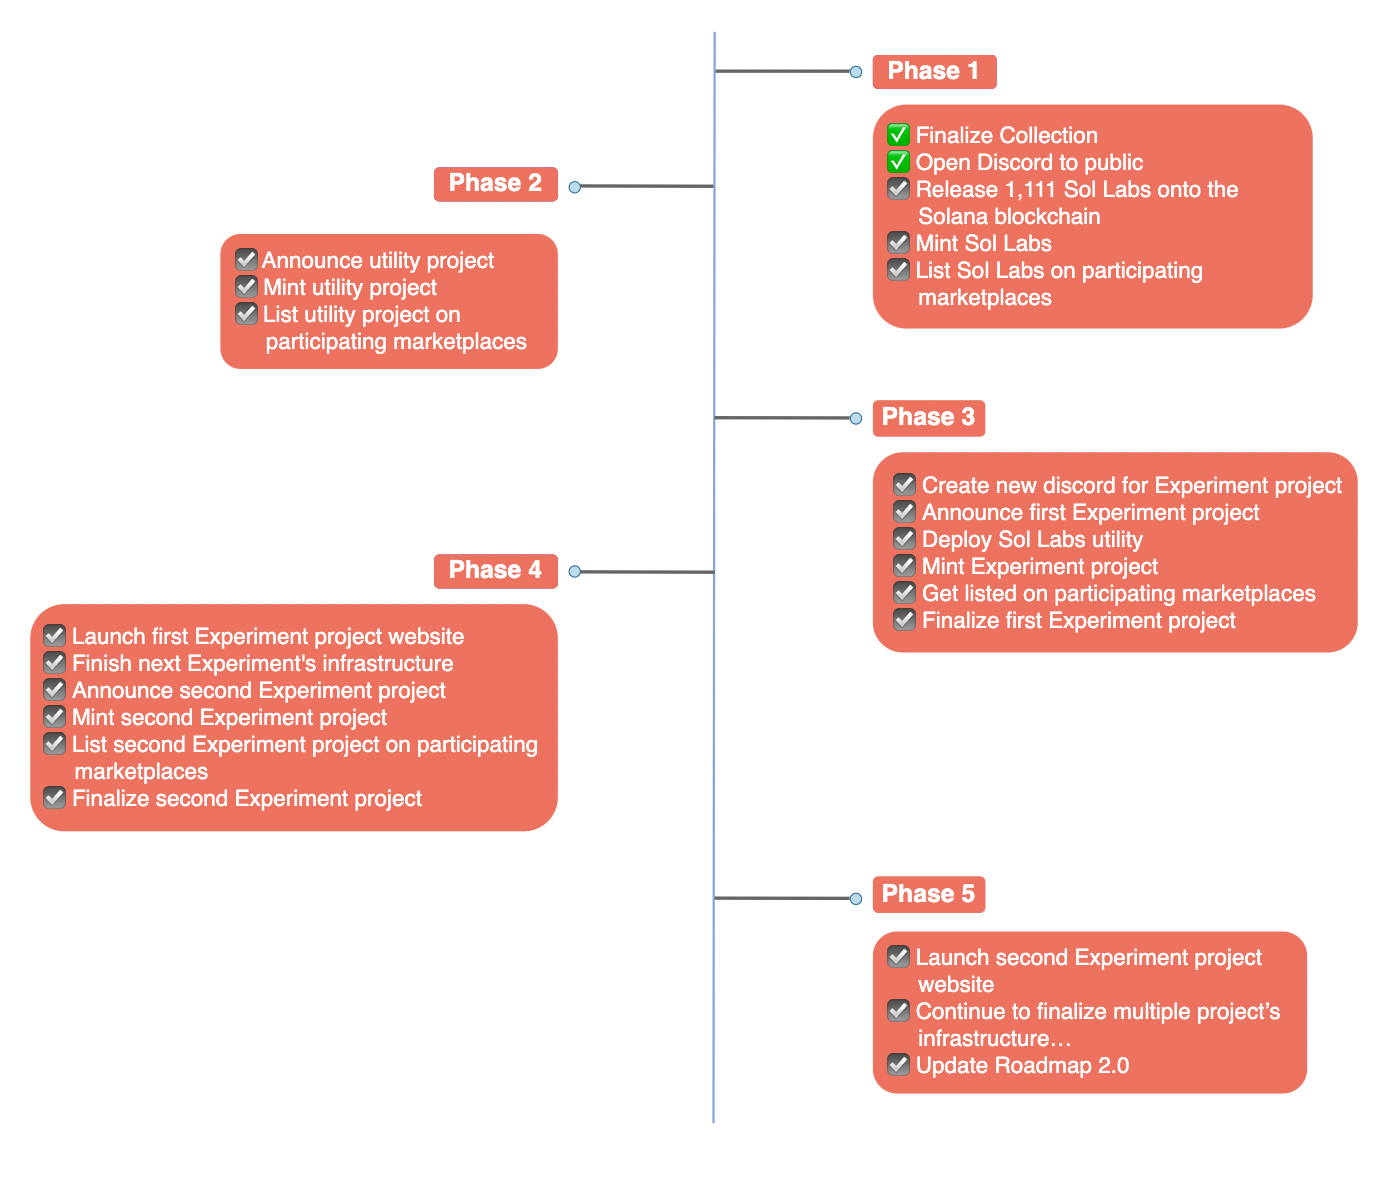
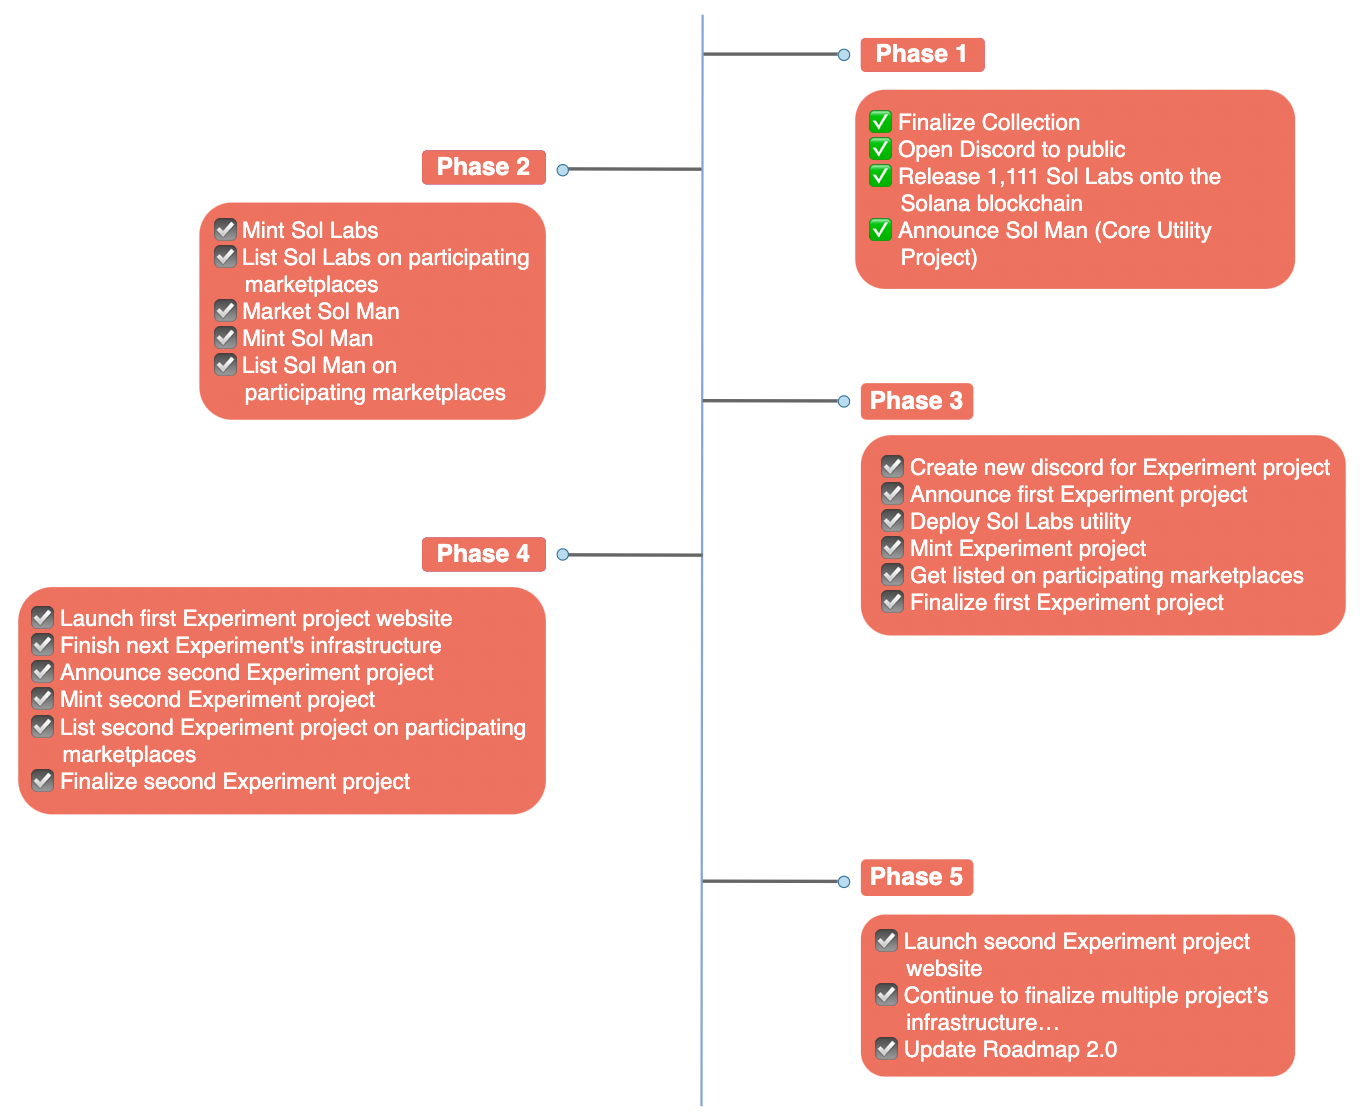
update roadmap, added utilities to sol labs

Changed region(s): [[0.0, 0.0312, 1.0, 0.9688]]

diff --git a/src/components/About.tsx b/src/components/About.tsx
@@ -1,11 +1,14 @@
 import { Component } from "react";
-import { Text, Box, Image, Flex, Grid } from "../chakra";
+import { Link } from "react-router-dom";
+import { Text, Box, Image, Flex, Grid, List, ListItem } from "../chakra";
 import MissionImg from "../images/Mission.png";
 import RoadmapImg from "../images/Roadmap.png";
 import MemberOneImg from "../images/Member1.png";
 import MemberTwoImg from "../images/Member2.png";
 import MemberThreeImg from "../images/Member3.png";
-
+import TicketAttribute from "../images/TicketAttribute.png";
+import SolanaAttribute from "../images/SolanaAttribute.png";
+import ExperimentAttribute from "../images/ExperimentAttribute.png";
 
 class About extends Component {
     get teamInfo() {
@@ -36,6 +39,11 @@ class About extends Component {
         return {
             fontSize: { base: "lg", md: "xl" }
         };
+    }
+    get listCommonProps() {
+        return {
+            marginLeft: "30px"
+        }
     }
     renderMission = () => (
         <Grid templateColumns={{ base: 'repeat(1, 1fr)', lg: 'repeat(2, 1fr)' }} gap={{ base: '0', md: '20' }} paddingBottom="8">
@@ -86,7 +94,7 @@ class About extends Component {
         </Box>
     )
     renderFAQ = () => {
-        const { commonProps } = this;
+        const { commonProps, listCommonProps } = this;
 
         return (
             <Box backgroundColor="lightGray" padding="8">
@@ -103,12 +111,85 @@ class About extends Component {
                     after another. We plan to build a portfolio like no other in the Solana NFT
                     community, and every holder that is with us will benefit at either a micro
                     or macro scale.
-                </Text>
-                <br />
-                <Text>
+                    <br />
+                    <br />
                     We are here to focus on long-term play. As people get invested more and more
                     into us the short and medium term holders will eventually be bought out.
                     Diamond hands will be benefiting greatly for understanding our vision.
+                </Text>
+                <br />
+                <Text fontWeight="bold" {...commonProps}>
+                    Utilities?
+                </Text>
+                <Text>
+                    The type of utility holders have is based on the product attribute you
+                    receive on your NFT. All Sol Labs NFT holders will be on the whitelist
+                    for Sol Man.
+                    <br />
+                    <br />
+                    <List>
+                        <ListItem {...listCommonProps}>
+                            <Text fontWeight="bold">Ticket attribute:</Text>
+                            <br />
+                            <Image src={TicketAttribute} alt="ticket attribute" objectFit='cover' width="150px" borderRadius="20" />
+                            <br />
+                            <Text>
+                                Those holding onto the Ticket development attribute will be whitelisted
+                                to all Experiment Projects of all NFTs created from Sol Labs.
+                            </Text>
+                            <br />
+                            <Text>
+                                NFT must be delisted in order to join the whitelist!
+                            </Text>
+                            <br />
+                            <Text as="em">
+                                * The Sol Labs NFTs with the Ticket development will be the only
+                                way people can get onto the whitelist for future Experiments.
+                                People who have OG roles will get level 1 (25%) whitelist,
+                                while people who have the Sol Labs NFT with the Ticket development
+                                will get level 2 whitelist (48%).
+                            </Text>
+                        </ListItem>
+                        <br />
+                        <ListItem {...listCommonProps}>
+                            <Text fontWeight="bold">Experiment attribute:</Text>
+                            <br />
+                            <Image src={ExperimentAttribute} alt="experiment attribute" objectFit='cover' width="150px" borderRadius="20" />
+                            <br />
+                            <Text>
+                                Those holding onto the Experiment development attribute will receive an
+                                airdrop of all Experiment Project Token created from Sol Labs.
+                            </Text>
+                            <br />
+                            <Text>
+                                NFT must be delisted in order to receive airdrop!
+                            </Text>
+                        </ListItem>
+                        <br />
+                        <ListItem {...listCommonProps}>
+                            <Text fontWeight="bold">Solana attribute:</Text>
+                            <br />
+                            <Image src={SolanaAttribute} alt="solana attribute" objectFit='cover' width="150px" borderRadius="20" />
+                            <br />
+                            <Text>
+                                Those holding onto the Solana development attribute will
+                                receive an airdrop of our {" "}
+                                <Link to="/projects/sol_man" className="link">Sol Man</Link> 
+                                {" "} (Core Utility NFT).
+                                Holders with this attribute also have the option of selling
+                                it back at mint price or increased value as new projects launch.
+                                The value of this NFT will increase by 1 sol with every project
+                                launch, including Experiment Projects and Test Projects.
+                                Any of these NFTs found at the valued price will be bought
+                                within a week.
+                            </Text>
+                            <br />
+                            <Text as="em">
+                                * Sol Man will be given to the holder before Sol Man mint launch.
+                                Must be delisted to receive!
+                            </Text>
+                        </ListItem>
+                    </List>
                 </Text>
                 <br />
                 <Text fontWeight="bold" {...commonProps}>
@@ -154,7 +235,7 @@ class About extends Component {
                     When is mint date?
                 </Text>
                 <Text>
-                    2/20/22 (Subject to change, Follow Twitter or join Discord for up to date time)
+                    February 18th 2022 23:00 PST / 07:00 +1 UTC.
                 </Text>
                 <br />
                 <Text fontWeight="bold" {...commonProps}>

diff --git a/src/components/Project/BuddyBots.tsx b/src/components/Project/BuddyBots.tsx
@@ -4,7 +4,8 @@ import {
     Box,
     Text,
     UnorderedList,
-    ListItem
+    ListItem,
+    Link
 } from "../../chakra";
 import BuddyBotsImg from "../../images/BuddyBotsCollage.png";
 
@@ -52,7 +53,7 @@ class BuddyBots extends Component {
                     Mint price?
                 </Text>
                 <Text>
-                    0 (Just have enough for the gas fee).
+                    Finished minting.
                 </Text>
                 <br />
                 <Text fontWeight="bold" {...commonProps}>
@@ -63,8 +64,8 @@ class BuddyBots extends Component {
                         Weekly lotto will be held for Buddy Bots holders.
                     </ListItem>
                     <ListItem {...listCommonProps}>
-                    10 Buddy Bots will be chosen for a chance to win 0.1 SOL per week 
-                    (Must be <b><u>delisted</u></b>!)
+                        10 Buddy Bots will be chosen for a chance to win 0.1 SOL per week
+                        (Must be <b><u>delisted</u></b>!)
                     </ListItem>
                     <ListItem {...listCommonProps}>
                         Buddy Bots will be cycled through until they have all been picked.
@@ -73,9 +74,8 @@ class BuddyBots extends Component {
                         52 SOL will go into the lottery funded by Sol Labs mint launch.
                     </ListItem>
                     <ListItem {...listCommonProps}>
-                        A minimum of 2 Buddy Bots will be chosen in the weekly lotto,
-                        however there could be an increase of Buddy Bots participants
-                        per week based on how well royalties have done.
+                        There could be an increase of Buddy Bots participants per week based
+                        on how well royalties have done.
                     </ListItem>
                     <ListItem {...listCommonProps}>
                         Pre-sale access to all Experiments.
@@ -109,6 +109,7 @@ class BuddyBots extends Component {
     }
     render() {
         const { commonProps, renderFAQ } = this;
+        const magicEdenLink = "https://magiceden.io/marketplace/buddy_bots";
 
         return (
             <Box px={{ base: '8', md: '40' }} paddingBottom="8" maxWidth='1200px' marginX='auto'>
@@ -118,6 +119,10 @@ class BuddyBots extends Component {
                 <Text align="left" {...commonProps}>
                     Feeling lonely?? Do not fret, Buddy Bots are here to keep you company!
                     Bring them with you on a journey of limitless potential with Sol Labs!!
+                    <br />
+                    <br />
+                    Get your Buddy Bots from {" "}
+                    <Link color="blue.500" href={magicEdenLink} isExternal><b>Magic Eden</b></Link>.
                 </Text>
                 <br />
                 <br />

diff --git a/src/stylesheets/base/_general.scss b/src/stylesheets/base/_general.scss
@@ -6,3 +6,7 @@ section {
     background-attachment: fixed;
     background-position: center;
 }
+
+.link {
+    color: #45E3FF;
+}
